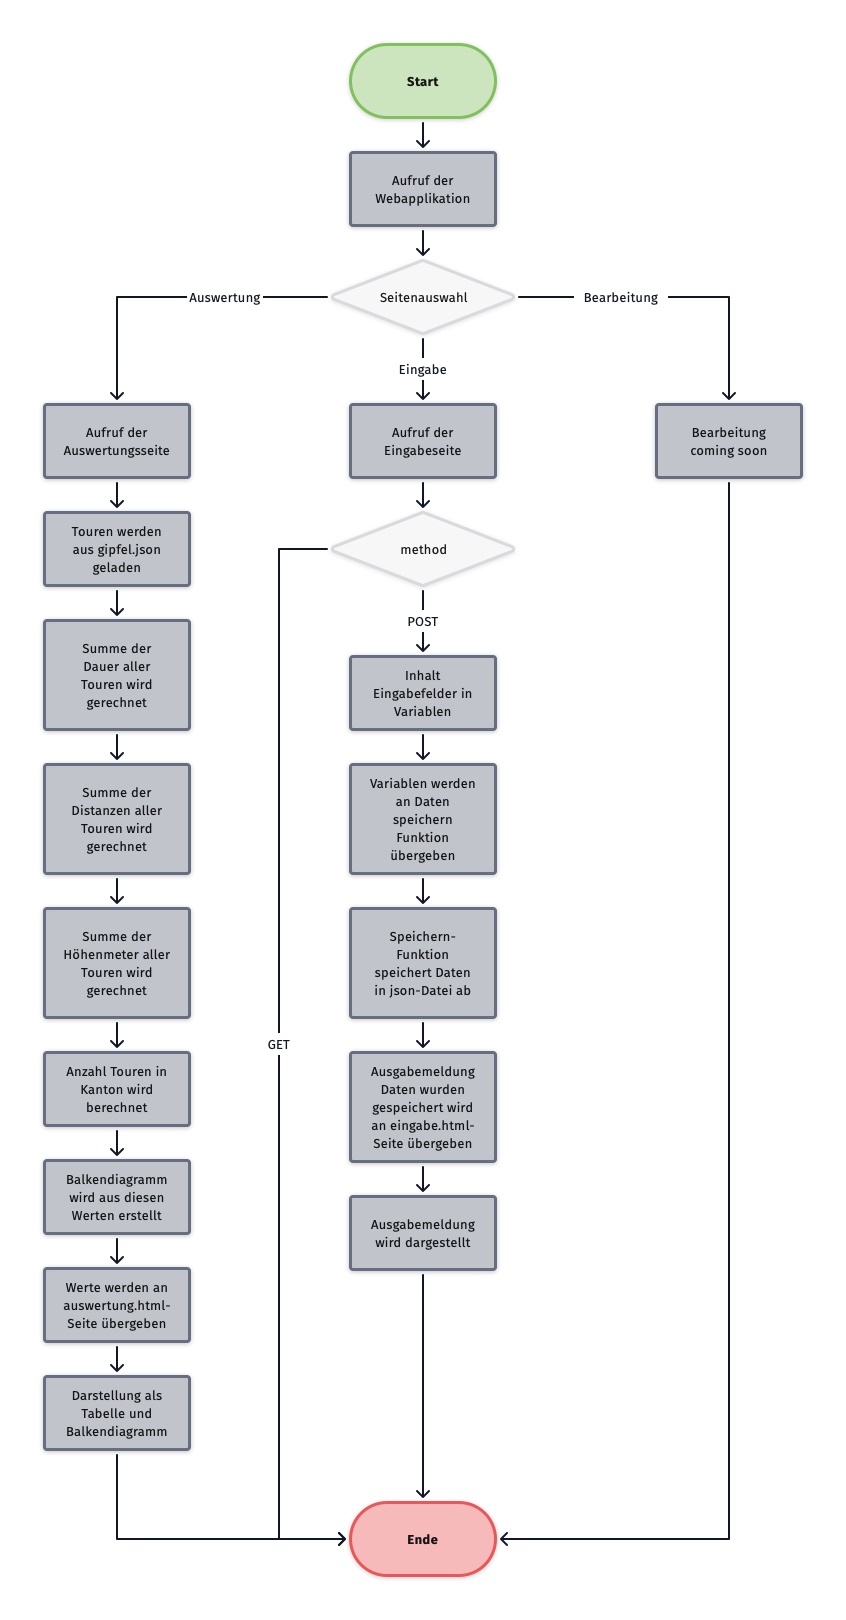
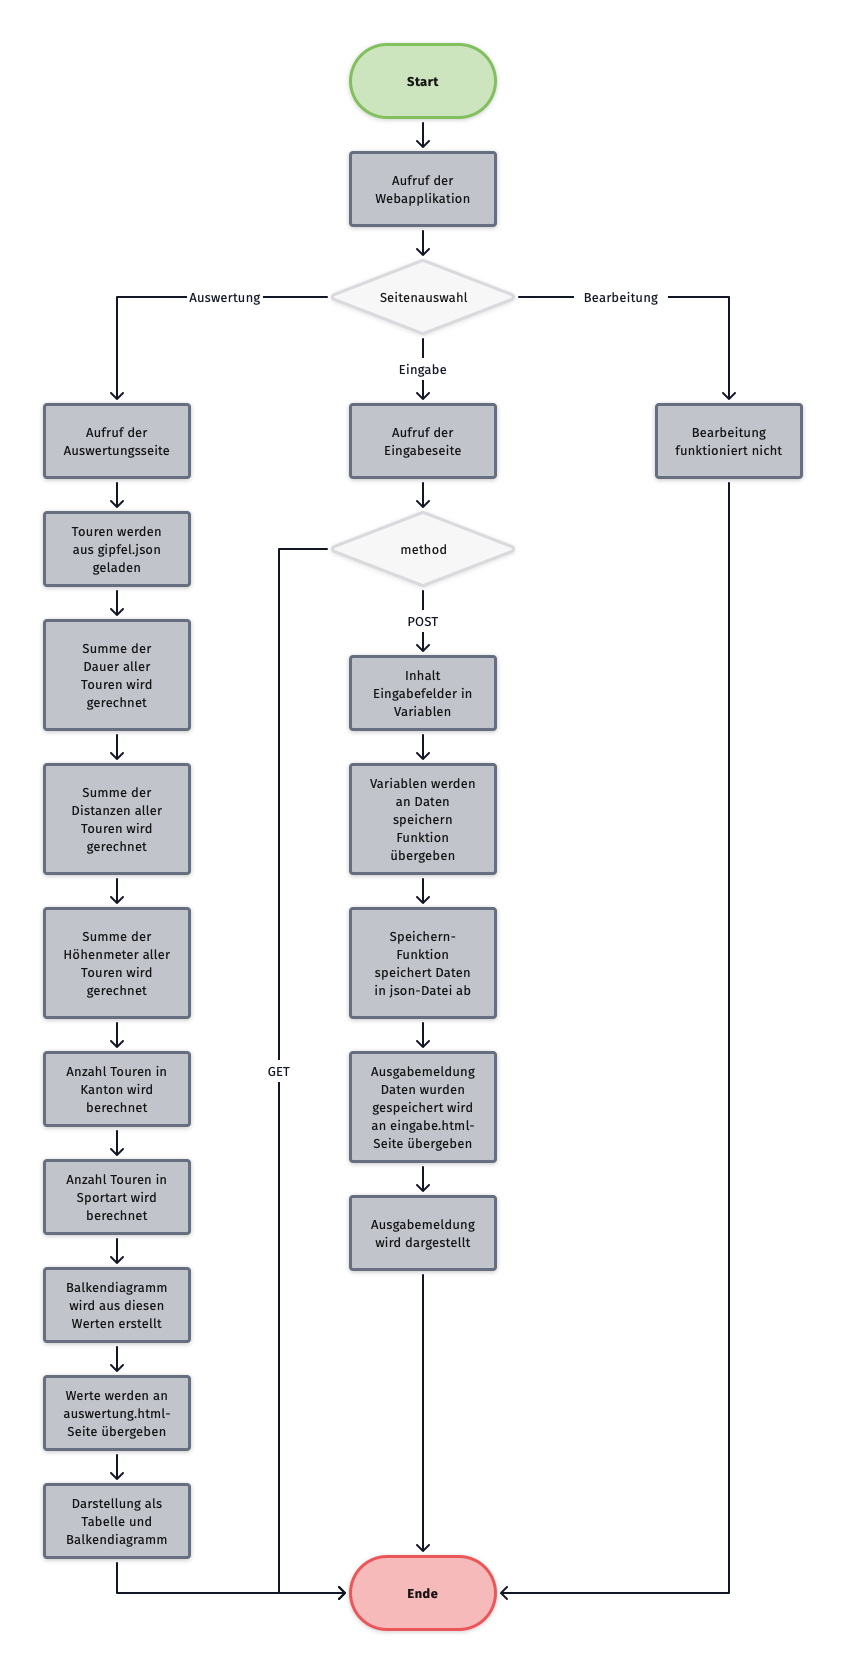
Abgabeversion

diff --git a/templates/bearbeitung.html b/templates/bearbeitung.html
@@ -1,7 +1,83 @@
 {% include "header.html" %}
 
-<!--{{ fig|safe }}-->
+<form method="POST">
+<select class="form-select" name="tour" aria-label="Sportart">
+  <option selected>Tour auswählen</option>
+  {% for eintrag in inhalt %}
+  <option value="Tour">{{ eintrag }}</option>
+  {% endfor %}
+</select>
+  <button type="submit">Senden</button>
+</form>
+<br>
+{{ tour }}
+<form method="POST">
+<div class="row">
+    <div class="col">
+    <input type="text" name="gipfelname" class="form-control" placeholder="Gipfelname" aria-label="Gipfelname">
+  </div>
+</div>
+<div class="row">
+    <div class="col">
+    <input type="number" name="koordinatelaenge" class="form-control" step="any" placeholder="Koordinate Länge" aria-label="Koordinate Länge">
+  </div>
+    <div class="col">
+    <input type="number" name="koordinatebreite" class="form-control" step="any" placeholder="Koordinate Breite" aria-label="Koordinate Breite">
+  </div>
+</div>
+    <select class="form-select" name="kanton" aria-label="Kanton">
+  <option selected>Kanton auswählen</option>
+  <option value="AG">AG</option>
+  <option value="AI">AI</option>
+  <option value="AR">AR</option>
+    <option value="BE">BE</option>
+    <option value="BL">BL</option>
+    <option value="BS">BS</option>
+    <option value="FR">FR</option>
+    <option value="GE">GE</option>
+    <option value="GL">GL</option>
+    <option value="GR">GR</option>
+    <option value="JU">JU</option>
+    <option value="LU">LU</option>
+    <option value="NE">NE</option>
+    <option value="NW">NW</option>
+    <option value="OW">OW</option>
+    <option value="SG">SG</option>
+    <option value="SH">SH</option>
+    <option value="SO">SO</option>
+    <option value="SZ">SZ</option>
+    <option value="TG">TG</option>
+    <option value="TI">TI</option>
+    <option value="UR">UR</option>
+    <option value="VD">VD</option>
+    <option value="VS">VS</option>
+    <option value="ZG">ZG</option>
+    <option value="ZH">ZH</option>
+</select>
 
-<p>Coming soon...</p>
+<div clas="row">
+    <div class="col">
+    <input type="date" name="datum" class="form-control" placeholder="Datum" aria-label="Datum">
+  </div>
+    <div class="col">
+    <input type="number" name="dauer" class="form-control" step="any" placeholder="Dauer" aria-label="Dauer">
+  </div>
+</div>
+<div class="row">
+  <div class="col">
+    <input type="number" name="distanz" class="form-control" step="any" placeholder="Distanz" aria-label="Distanz">
+  </div>
+    <div class="col">
+    <input type="number" name="hoehenmeter" class="form-control" step="any" placeholder="Höhenmeter" aria-label="Höhenmeter">
+  </div>
+</div>
+<select class="form-select" name="sportart" aria-label="Sportart">
+  <option selected>Sportart auswählen</option>
+  <option value="Bike">Bike</option>
+  <option value="Skitour">Skitour</option>
+  <option value="Wanderung">Wanderung</option>
+</select>
+  <button type="submit">Senden</button>
+</form>
 
 {% include "footer.html" %}

diff --git a/templates/auswertung.html b/templates/auswertung.html
@@ -30,6 +30,7 @@
   </tbody>
 </table>
 
+<!--Dropdown-Menüs für die Filterung der Tourdaten, funktioniert nicht -->
 <!--<form method="POST">
 <select class="form-select" name="kanton" aria-label="Kanton">
   <option selected>Kanton auswählen</option>
@@ -71,5 +72,7 @@
 
 <!-- Darstellung des Balkendiagramms Anzahl Touren in Kanton -->
 {{ viz_div|safe }}
+<!-- Darstellung des Balkendiagramms Anzahl Touren in Sportart -->
+{{ sport|safe }}
 
 {% include "footer.html" %}

diff --git a/main.py b/main.py
@@ -28,10 +28,11 @@ def start():
     summedistanz = berechnung.summedistanz()
     summehoehenmeter = berechnung.summehoehenmeter()
     div = berechnung.viz()
+    sport = berechnung.sport()
     for key, value in gipfelbuch.items():
         titel = value.keys()
         inhalt = gipfelbuch.items()
-        return render_template("auswertung.html", titel=titel, inhalt=inhalt, summedauer=summedauer, summedistanz=summedistanz, summehoehenmeter=summehoehenmeter, viz_div=div)
+        return render_template("auswertung.html", titel=titel, inhalt=inhalt, summedauer=summedauer, summedistanz=summedistanz, summehoehenmeter=summehoehenmeter, viz_div=div, sport=sport)
 
 """
 Daten werden aus gipfel.json geladen
@@ -50,10 +51,11 @@ def auswertung():
     summedistanz = berechnung.summedistanz()
     summehoehenmeter = berechnung.summehoehenmeter()
     div = berechnung.viz()
+    sport = berechnung.sport()
     for key, value in gipfelbuch.items():
         titel = value.keys()
         inhalt = gipfelbuch.items()
-        return render_template("auswertung.html", titel=titel, inhalt=inhalt, summedauer=summedauer, summedistanz=summedistanz, summehoehenmeter=summehoehenmeter, viz_div=div)
+        return render_template("auswertung.html", titel=titel, inhalt=inhalt, summedauer=summedauer, summedistanz=summedistanz, summehoehenmeter=summehoehenmeter, viz_div=div, sport=sport)
 
 """
 Mit Methods POST, werden Daten aus Eingabeformular in Variablen geschrieben.
@@ -80,11 +82,18 @@ def eingabe():
     return render_template("eingabe.html")
 
 """
-Bearbeitung ist noch nicht fertiggestellt!
+Bearbeitung ist funktioniert nicht...
+Im Dropdown sollte eine Tour ausgewählt werden können. Die Attribute dieser Tour sollten in die Inputboxen abgefüllt werden und somit bearbeitet werden können.
 """
-@app.route("/bearbeitung")
+@app.route("/bearbeitung", methods=["GET", "POST"])
 def bearbeitung():
-    return render_template("bearbeitung.html")
+    gipfelbuch = daten.gipfel_laden()
+    inhalt = gipfelbuch.items()
+    return render_template("bearbeitung.html", inhalt=inhalt)
+
+    if request.method == "POST":
+        tour = request.form.get('tour')
+        return render_template("bearbeitung.html", tour=tour)
 
 
 if __name__ == "__main__":

diff --git a/berechnung.py b/berechnung.py
@@ -99,6 +99,29 @@ def anzahlkanton():
 
     return kantone, values
 
+"""
+Funktion berechnet aus den Daten von gipfel.json die Anzahl Touren pro Sportart und gibt die Werte für
+die Darstellung im Balkendiagramm zurück
+"""
+def anzahlsportart():
+    gipfelbuch = daten.gipfel_laden()
+    bike = 0
+    skitour = 0
+    wanderung = 0
+
+    for key, value in gipfelbuch.items():
+        if value["Sportart"] == "Bike":
+            bike += 1
+        elif value["Sportart"] == "Skitour":
+            skitour += 1
+        elif value["Sportart"] == "Wanderung":
+            wanderung += 1
+
+    sportart = ['Bike', 'Skitour', 'Wanderung']
+    anzahl = [bike, skitour, wanderung]
+
+    return sportart, anzahl
+
 # Berechnung der Summe der Dauer aller gipfel.json Einträge
 def summedauer():
     gipfelbuch = daten.gipfel_laden()
@@ -127,5 +150,12 @@ def summehoehenmeter():
 def viz():
     kantone, values = anzahlkanton()
     fig = px.bar(x=kantone, y=values)
+    div = plot(fig, output_type="div")
+    return div
+
+# Erstellung des Balkendiagramms der Anzahl Routen pro Sportart
+def sport():
+    sportart, anzahl = anzahlsportart()
+    fig = px.bar(x=sportart, y=anzahl)
     div = plot(fig, output_type="div")
     return div
